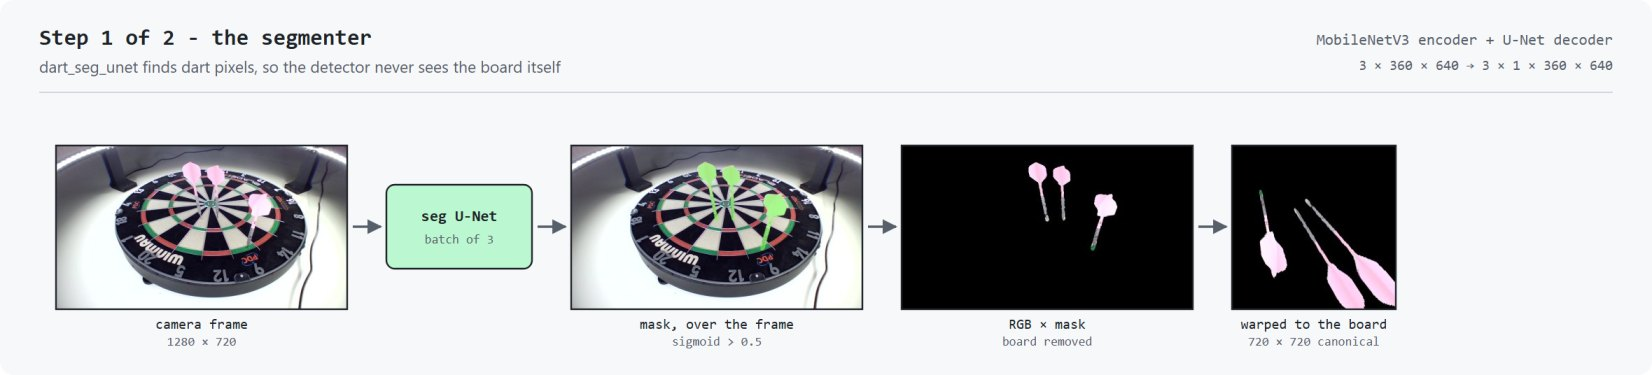
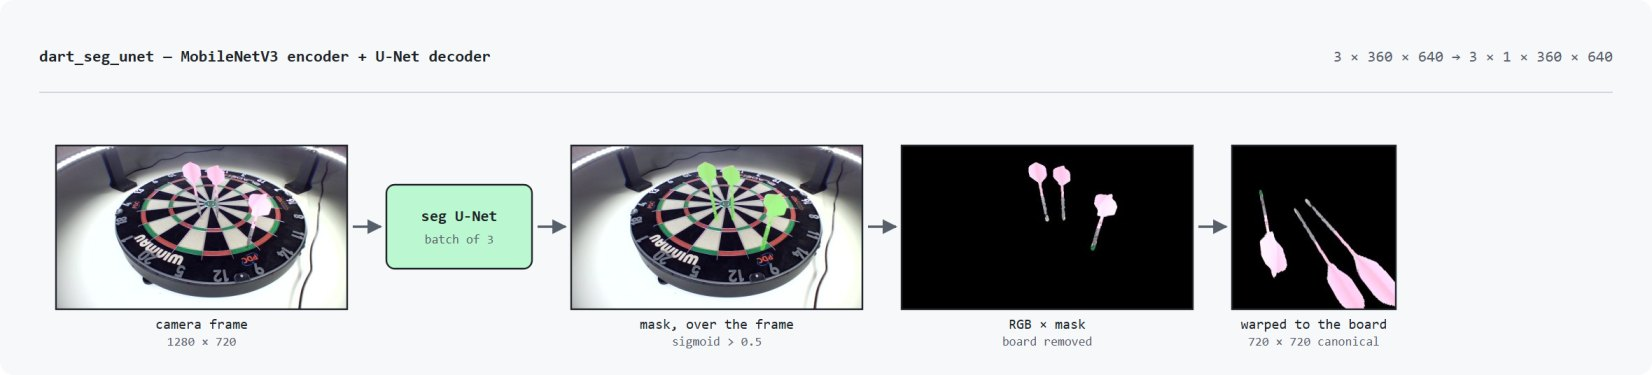
Remove labels from figures

Changed region(s): [[0.0, 0.088, 0.3396, 0.2053], [0.7718, 0.088, 0.9879, 0.2053]]

diff --git a/scripts/make_model_figures.py b/scripts/make_model_figures.py
@@ -211,13 +211,17 @@ class Fig:
             f'</defs>\n<rect width="{self.w}" height="{self.h}" rx="10" fill="{BG}"/>\n'
             + "\n".join(self.p) + "\n</svg>\n")
 
-    def header(self, title, subtitle, right=None, right2=None):
-        self.text(28, 32, title, size=16, anchor="start", weight="700")
-        self.text(28, 52, subtitle, size=11.5, anchor="start", fill=MUTED, family=SANS)
+    def header(self, left, right=None):
+        """One line naming what the figure is, and nothing that explains it.
+
+        A title here would repeat the README heading directly above the image,
+        and a subtitle would repeat the sentence beside it -- which is what
+        these used to do. What is left is the part the prose does not carry:
+        which model, which shapes, where the data came from.
+        """
+        self.text(28, 44, left, size=11.5, anchor="start", weight="600")
         if right:
-            self.text(self.w - 28, 32, right, size=11, anchor="end", fill=MUTED)
-        if right2:
-            self.text(self.w - 28, 50, right2, size=10, anchor="end", fill=MUTED)
+            self.text(self.w - 28, 44, right, size=11, anchor="end", fill=MUTED)
         self.add(f'<line x1="28" y1="66" x2="{self.w-28}" y2="66" '
                  f'stroke="{RULE}" stroke-width="1"/>')
 
@@ -246,9 +250,8 @@ def esc(s):
 # ------------------------------------------------------- step 1: the segmenter
 def fig_segmentation() -> Fig:
     f = Fig(1180, 268)
-    f.header("Step 1 of 2 - the segmenter",
-             "dart_seg_unet finds dart pixels, so the detector never sees the board itself",
-             "MobileNetV3 encoder + U-Net decoder", "3 × 360 × 640  →  3 × 1 × 360 × 640")
+    f.header("dart_seg_unet — MobileNetV3 encoder + U-Net decoder",
+             "3 × 360 × 640  →  3 × 1 × 360 × 640")
 
     y, iw, ih = 104, 208, 117           # 16:9 camera frames
     f.img("raw_cam0", 40, y, iw, ih, "camera frame", "1280 × 720")
@@ -267,9 +270,7 @@ def fig_segmentation() -> Fig:
 # ------------------------------------------------- step 1 detail: the tip flare
 def fig_tipflare() -> Fig:
     f = Fig(700, 268)
-    f.header("The mask is wider than the steel",
-             "one tip at 5× zoom, and a second dart where there is no tip to see",
-             "training labels", "round cap, not a point")
+    f.header("training masks, 5× zoom", "4 crops from 2 frames")
 
     y, sz, gap = 100, 138, 12
     f.img("tipdetail_raw", 40, y, sz, sz, "the tip, 5× zoom", "visible, just")
@@ -289,10 +290,7 @@ def fig_tipflare() -> Fig:
 def fig_triangulation() -> Fig:
     t = json.loads((ASSETS / "triangulation.json").read_text())["tri"]
     f = Fig(1060, 330)
-    f.header("Why three cameras",
-             "the tip is the only part of a dart touching the board, so it is the "
-             "only point all three views agree on",
-             "geometry only", "no model involved")
+    f.header("three warped views, one frame", "geometry only — no model has run")
 
     # Panels are spaced to leave room for the operators between them; at a
     # tighter pitch the + and = land on top of the images and vanish into the
@@ -318,30 +316,23 @@ def fig_triangulation() -> Fig:
 # ------------------------------------------------- and darts hide each other
 def fig_occlusion() -> Fig:
     o = json.loads((ASSETS / "triangulation.json").read_text())["occ"]
-    # No right-hand badges: the title alone is already wide for this canvas, and
-    # the colour key reads better under the panels than opposite them.
-    f = Fig(620, 356)
-    f.header("A later dart hides behind an earlier one",
-             "the same dart, the same instant, two cameras")
+    f = Fig(620, 320)
+    f.header("yellow: thrown third   ·   magenta: already in the board",
+             "tints from the stored labels")
 
     y, sz = 104, 180
     f.img("occl_cut", 60, y, sz, sz, "cam%d" % o["cut_cam"],
           "cut into %d pieces" % o["cut_parts"])
     f.img("occl_whole", 60 + sz + 40, y, sz, sz, "cam%d" % o["whole_cam"],
           "one piece")
-    f.text(f.w / 2, 336,
-           "yellow: thrown third   ·   magenta: already in the board   ·   tints from the stored labels",
-           size=9, fill=MUTED, family=SANS)
     return f
 
 
 # ---------------------------------------------------------- step 2: detector
 def fig_detector() -> Fig:
     f = Fig(1120, 800)
-    f.header("Step 2 of 2 - the detector",
-             "multicam_unet_ar · three views stay separate until the funnel, and the "
-             "conditioning enters twice",
-             "3.9M parameters", "21 × 720 × 720  →  360 × 360 + 1")
+    f.header("multicam_unet_ar — 3.9M parameters",
+             "21 × 720 × 720  →  360 × 360 + 1")
 
     t, gapx = 64, 6
     x_rgb, x_inst = 44, 132
@@ -478,10 +469,8 @@ def fig_autoregressive() -> Fig:
     doc = json.loads((ASSETS / "passes.json").read_text())
     passes = doc["passes"]
     f = Fig(1080, 856)
-    f.header("One pass per throw",
-             "darts arrive one at a time, so each frame is asked for one dart, "
-             "against the ones already counted",
-             "one real turn", "no per-dart label anywhere")
+    f.header("one real turn, three captures",
+             "conditioning by differencing — no labels")
 
     t, x0, step = 170, 44, 274
     ROWA, ROWB, ROWC = 116, 342, 568
@@ -530,9 +519,8 @@ def fig_autoregressive() -> Fig:
 def fig_frozenframe() -> Fig:
     nosep = json.loads((ASSETS / "passes.json").read_text())["nosep"]
     f = Fig(620, 300)
-    f.header("A frozen frame has no \u201csince\u201d",
-             "hand the first dart the whole mask and it claims all three",
-             "replay only", "not the live path")
+    f.header("replay only — not the live path",
+             "the same three-dart frame")
 
     y, sz = 104, 150
     f.img("nosep_cond", 40, y, sz, sz, "one claim", "all three darts")
